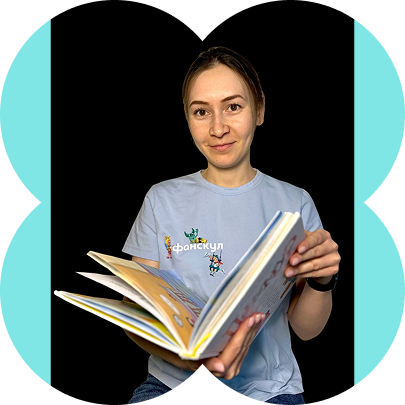
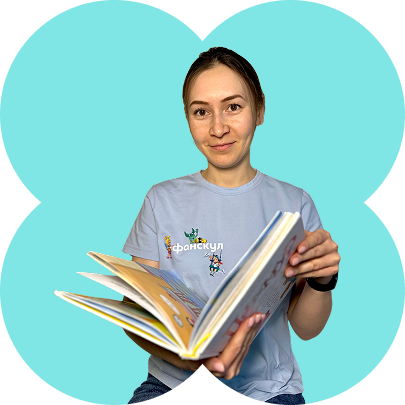
before reliase

diff --git a/plugins/constants.ts b/plugins/constants.ts
@@ -15,7 +15,7 @@ export default defineNuxtPlugin(() => {
         yandex_maps_api_key: '1f4f5a22-ac82-4851-9e07-98b180a7d83b',
         //general
         landing_name: 'kindergarten Kazan',
-        company_name: 'ИП Фаррахова',
+        company_name: 'ЧУ ДО ЦРДДВ «Бибигон»',
 
         //contacts
         phone_number: '+79274031778',
@@ -23,13 +23,22 @@ export default defineNuxtPlugin(() => {
         wa: '+79274031778',
         tg: '+79274031778',
         vk_link: 'funscoolkzn',
-        mail: 'kazan@FunsCool.ru',
+        mail: 'chudo-bibigon@mail.ru',
         agreement: 'https://storage.yandexcloud.net/funscool-pdfs/aggreement.pdf', // OOO_agreement.pdf
         policy: 'https://storage.yandexcloud.net/funscool-pdfs/policy.pdf', //OOO_policy.pdf
         license_number: '',
         ya_mark: '34058963498',
 
         main_sliders: [
+          {
+            title: 'Оплата материнским капиталом',
+            text: `
+      <p>Позаботьтесь о будщем своего ребёнка с помощью материнского капитала!</p>
+    `,
+            buttonText: 'Оставить заявку',
+            image: '/img/main-sliders/MainSlider5.webp',
+            alt: 'Оплата материнским капиталом',
+          },
           {
             title: 'С любовью к детству,<br>с заботой о будущем',
             text: `
@@ -49,25 +58,15 @@ export default defineNuxtPlugin(() => {
             alt: 'Детский сад Фанскул — забота о будущем ребёнка',
             remark: '',
           },
-          {
-            title: 'Акция «Неделя в подарок»',
-            text: `
-      <p>При заключении договора на дошкольное образование посещение в течение пяти рабочих дней детского сада предоставляется бесплатно.</p>
-      <p class="sale-offer">Срок проведения акции до ${formattedDate} включительно</p>
-    `,
-            buttonText: 'Оставить заявку',
-            image: '/img/main-sliders/MainSlider2.webp',
-            alt: 'Акция Неделя в подарок',
-          },
-          {
-            title: 'Акция «Золотая осень»<br>Дарим 30% в течение трёх осенних месяцев',
-            text: `
-      <p class="sale-offer">Срок проведения акции до ${formattedDate} включительно</p>
-    `,
-            buttonText: 'Оставить заявку',
-            image: '/img/main-sliders/MainSlider3.webp',
-            alt: 'Акция Золотая осень — скидка 30%',
-          },
+          //       {
+          //         title: 'Акция «Вместе теплее»<br>Дарим 30% в течение трёх зимних месяцев',
+          //         text: `
+          //   <p class="sale-offer">Срок проведения акции до ${formattedDate} включительно</p>
+          // `,
+          //         buttonText: 'Оставить заявку',
+          //         image: '/img/main-sliders/MainSlider3.webp',
+          //         alt: 'Акция Вместе теплее — скидка 30%',
+          //       },
           {
             title: 'Мама и малыш<br>Совместные развивающие занятия от 1 года',
             text: `
@@ -408,22 +407,22 @@ export default defineNuxtPlugin(() => {
             title: 'Хакима',
             additional: 'детский сад',
             address: 'ул. Сибгата Хакима, д. 41',
-            metro: [],
+            metro: ['Козья слобода'],
             video: 'Hakim.mp4',
             yaMark: '24322902370',
             phone: '+79274031778',
           },
         ],
         team_members: [
-          {
-            id: 1,
-            name: 'Мухамадуллина Северина Ринатовна',
-            position: 'Операционный директор сети филиалов по г. Казани',
-            description:
-              'Операционный директор сети филиалов в г. Казани с более чем 10-летним опытом руководящей работы. Сочетает глубокие лингвистические знания с тёплым отношением к каждому ребёнку, создавая гармоничное пространство для всей семьи. Образование: ТГПУ, русская филология (2011); Центр социально-гуманитарного образования, дошкольное образование (2016) и менеджмент в образовании (2018). Внедряет цифровые ресурсы, делает упор на эмоциональный интеллект и раннюю профориентацию.',
-            credo: 'Через сказку и игру открывается путь к сердцу ребёнка.',
-            img: '/img/team/Muhamadulina.png',
-          },
+          // {
+          //   id: 1,
+          //   name: 'Мухамадуллина Северина Ринатовна',
+          //   position: 'Операционный директор сети филиалов по г. Казани',
+          //   description:
+          //     'Операционный директор сети филиалов в г. Казани с более чем 10-летним опытом руководящей работы. Сочетает глубокие лингвистические знания с тёплым отношением к каждому ребёнку, создавая гармоничное пространство для всей семьи. Образование: ТГПУ, русская филология (2011); Центр социально-гуманитарного образования, дошкольное образование (2016) и менеджмент в образовании (2018). Внедряет цифровые ресурсы, делает упор на эмоциональный интеллект и раннюю профориентацию.',
+          //   credo: 'Через сказку и игру открывается путь к сердцу ребёнка.',
+          //   img: '/img/team/Muhamadulina.png',
+          // },
           {
             id: 2,
             name: 'Осипова Кристина Алексеевна',

diff --git a/nuxt.config.ts b/nuxt.config.ts
@@ -81,12 +81,6 @@ export default defineNuxtConfig({
         { rel: 'icon', type: 'image/x-icon', href: '/favicon.ico' },
       ],
       // Скрипты подключайте через @nuxt/scripts или здесь, ТОЛЬКО defer
-      script: [
-        {
-          src: 'https://widgets.mango-office.ru/site/27875',
-          defer: true,
-        },
-      ],
     },
   },
 

diff --git a/types.ts b/types.ts
@@ -36,6 +36,7 @@ export type branchData = {
   yaMetrikGoal?: string;
   video: string;
   metro?: string[];
+  promotions?: string[];
   phone?: string;
 };
 export type teamMember = {
